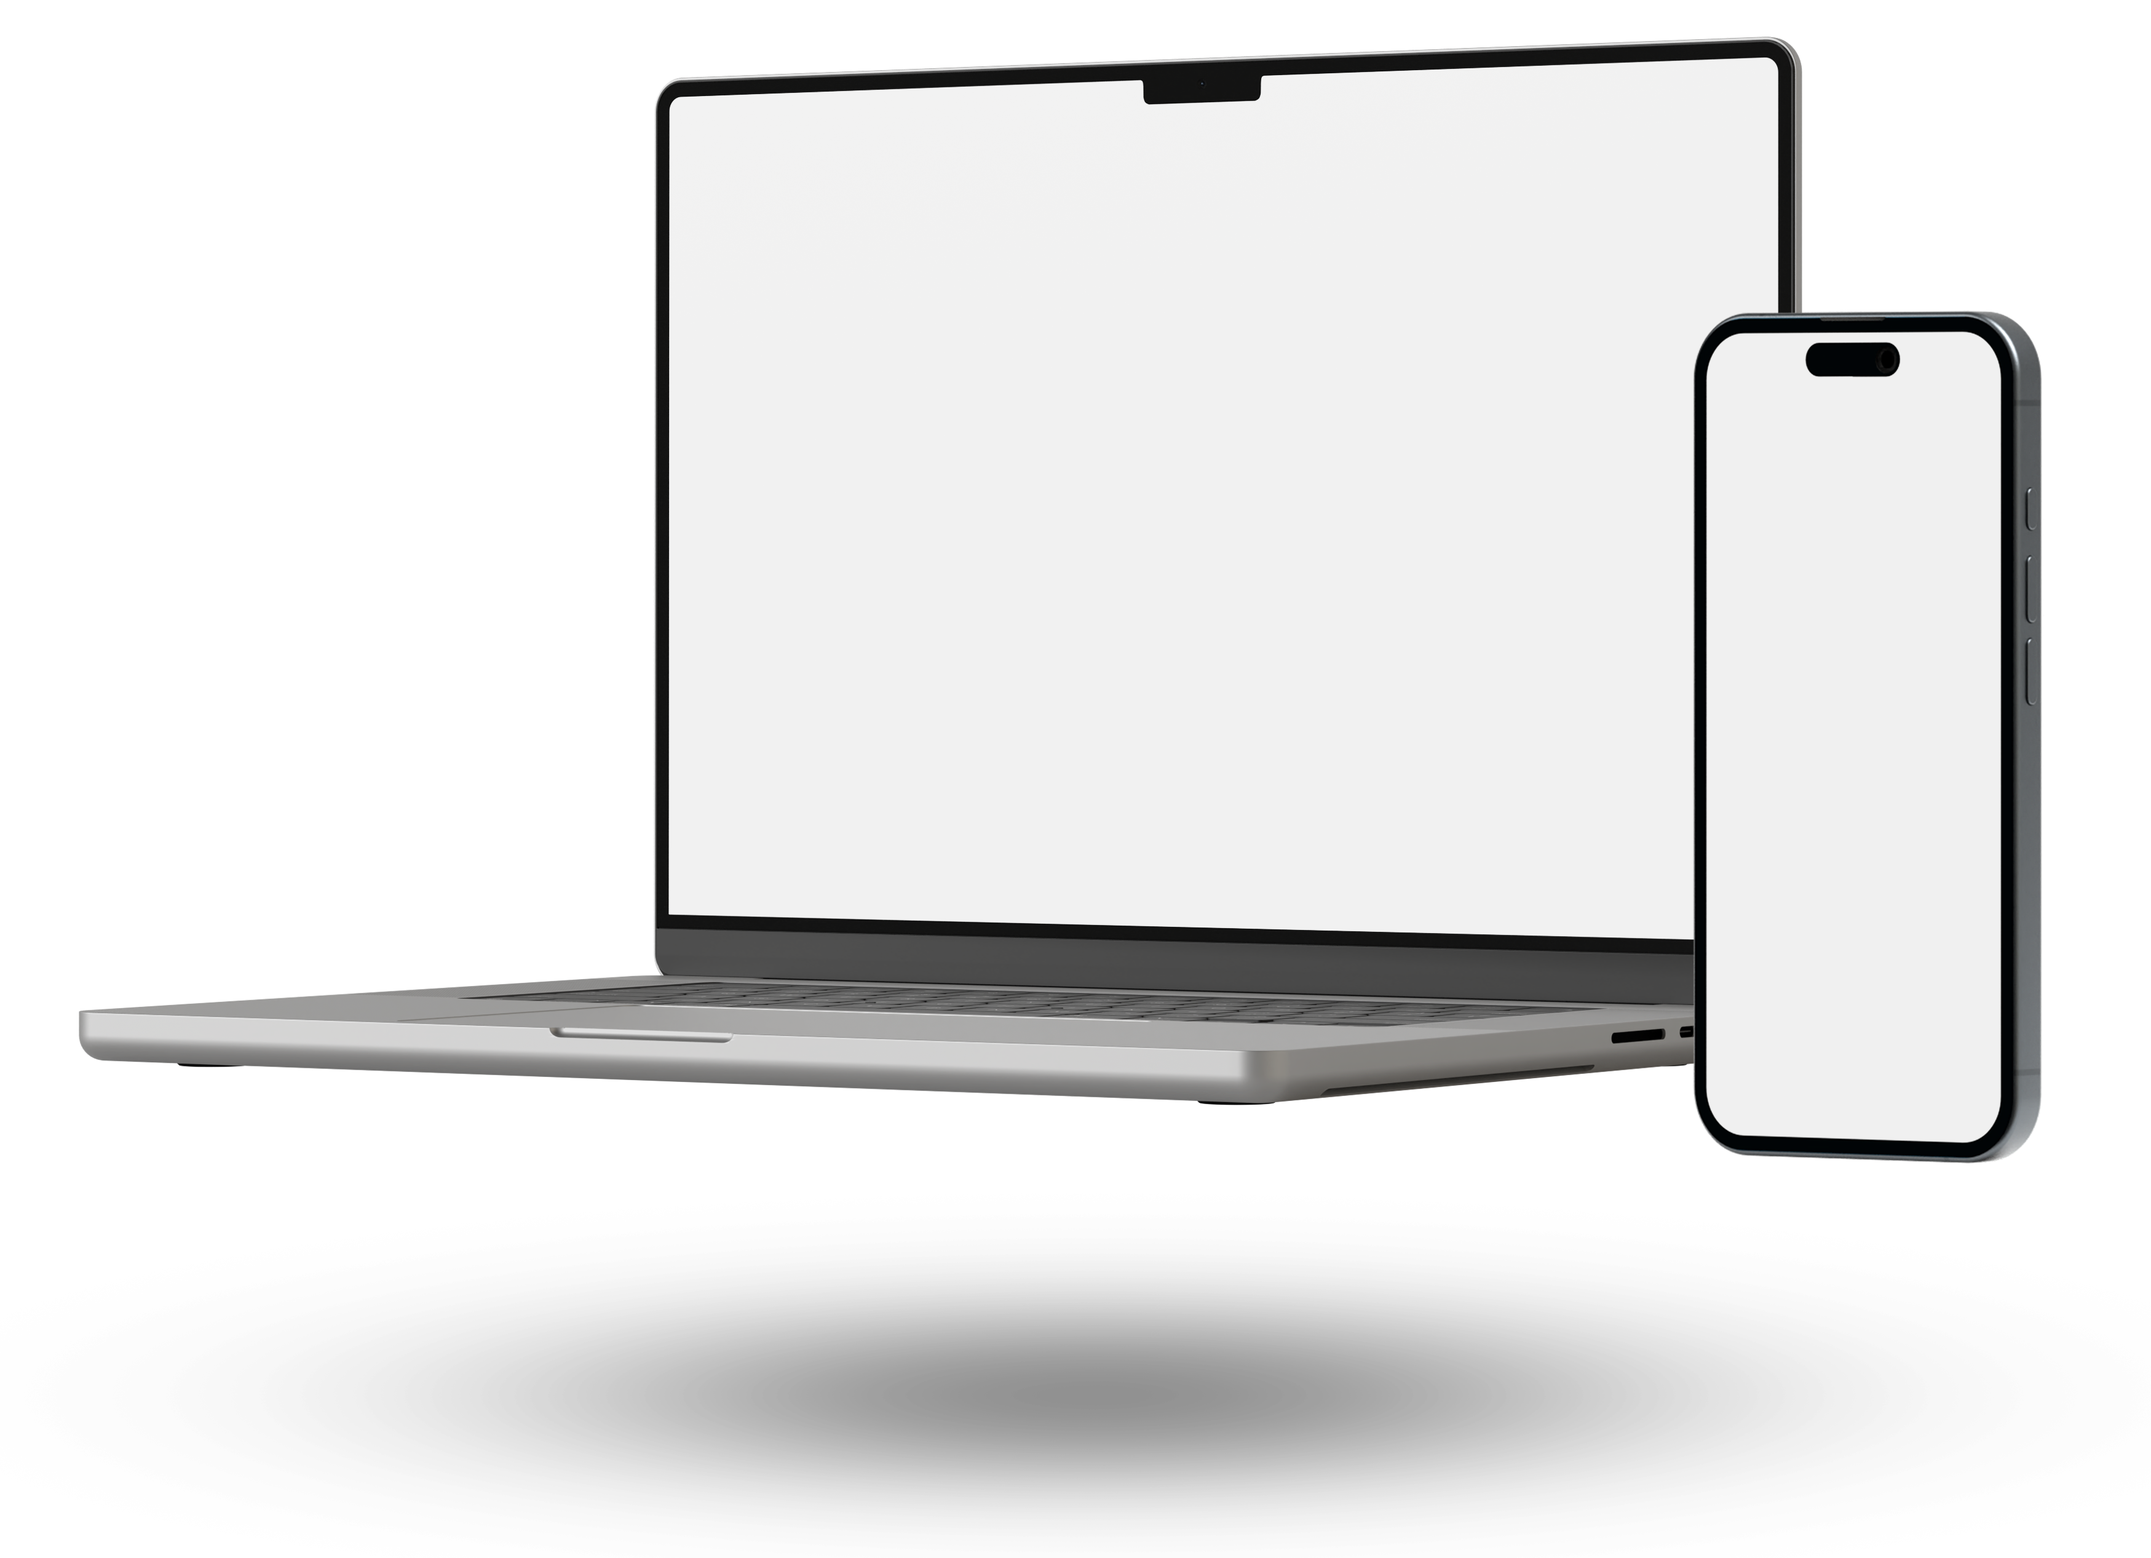
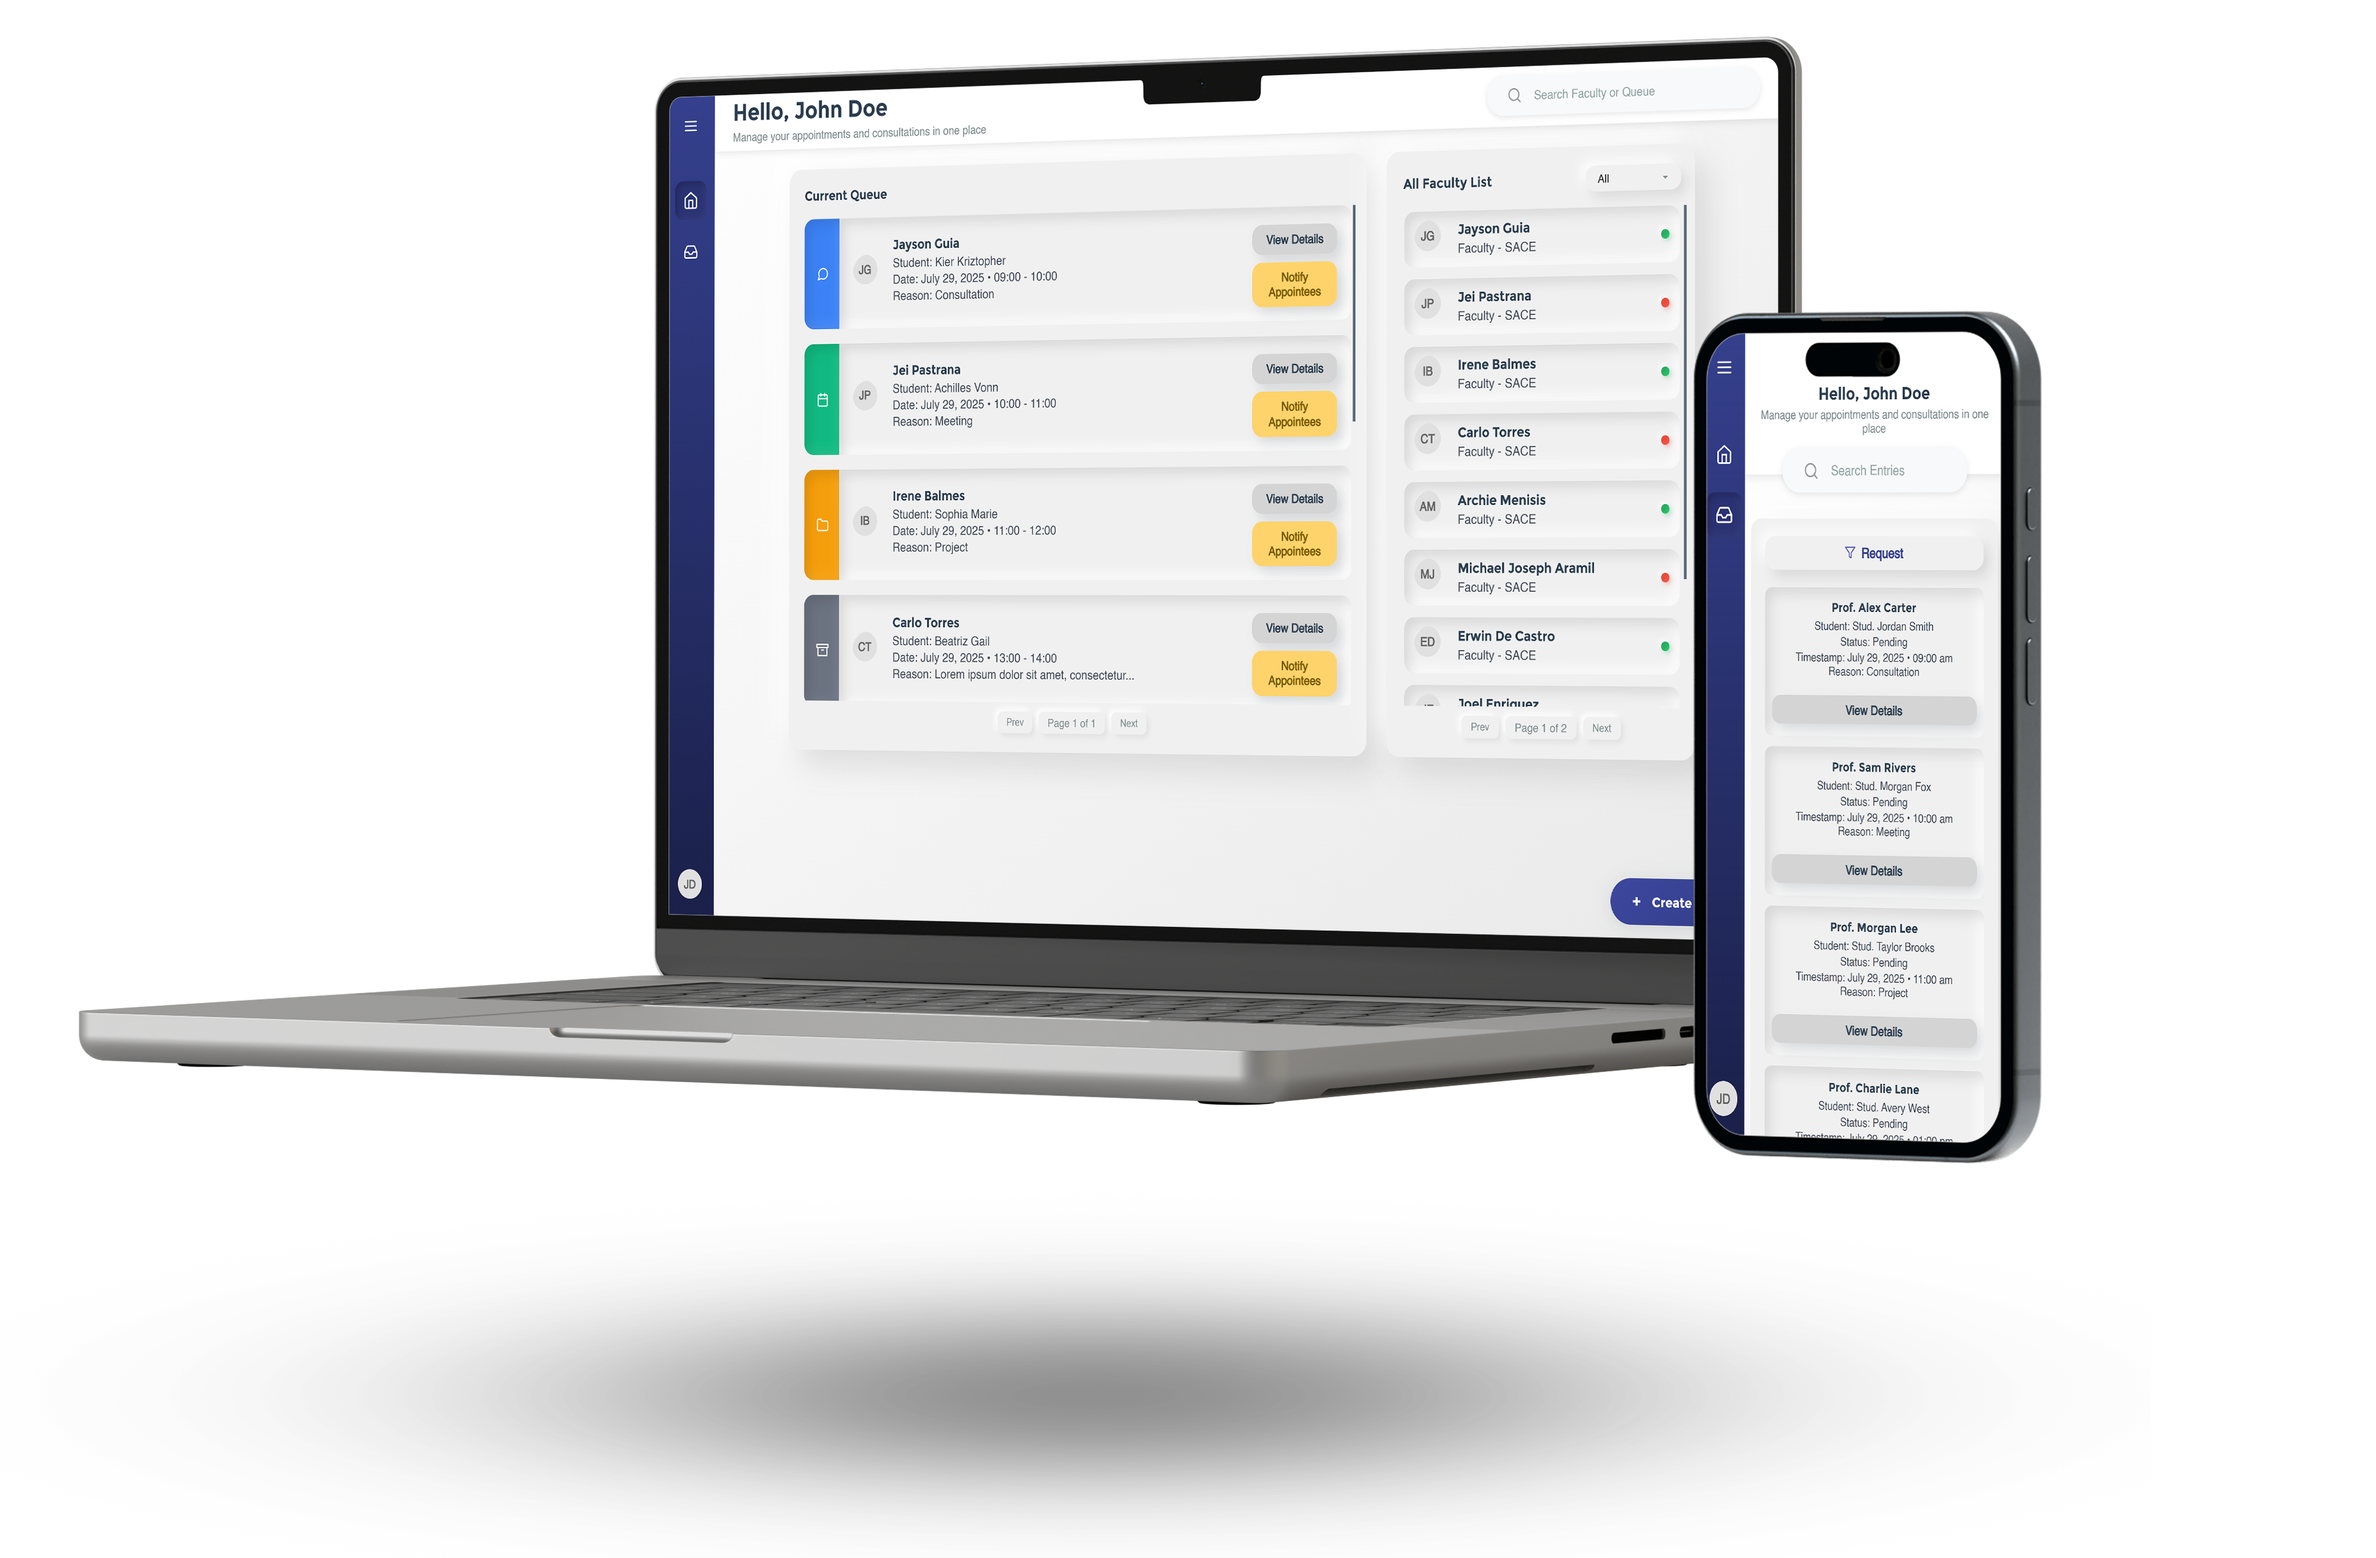
feat: Add date normalization helper and enhance date formatting in DailyLogHistory and RequestHistory components; improve mobile responsiveness in moderator history styles

diff --git a/nutify/src/pages/components/RequestHistory.jsx b/nutify/src/pages/components/RequestHistory.jsx
@@ -1,31 +1,36 @@
 // Request history list UI
 import React, { useState } from "react";
 
-// Format date as MM/DD/YYYY
-const formatDateMMDDYYYY = (dateStr) => {
+// Format date as "Month Day, Year • hh:mm am/pm"
+const formatDateWithTime = (dateStr) => {
   // Accepts "July 29, 2025 09:00"
-  const [datePart, timePart] = dateStr.split(' ');
-  let d = new Date(datePart.replace(',', '') + ' ' + timePart);
-  return isNaN(d.getTime())
-    ? dateStr
-    : `${d.toLocaleString("en-US", { month: "long", day: "numeric", year: "numeric" })}`;
+  const d = new Date(dateStr);
+  if (isNaN(d.getTime())) return dateStr;
+  const datePart = d.toLocaleString("en-US", { month: "long", day: "numeric", year: "numeric" });
+  let hours = d.getHours();
+  let minutes = d.getMinutes();
+  let ampm = hours >= 12 ? "pm" : "am";
+  hours = hours % 12;
+  hours = hours === 0 ? 12 : hours;
+  const timePart = `${hours.toString().padStart(2, "0")}:${minutes.toString().padStart(2, "0")} ${ampm}`;
+  return `${datePart} • ${timePart}`;
 };
 
 const facultyList = [
-  { id: 1, name: 'Jayson Guia', avatar: null },
-  { id: 2, name: 'Jei Pastrana', avatar: null },
-  { id: 3, name: 'Irene Balmes', avatar: null },
-  { id: 4, name: 'Carlo Torres', avatar: null },
-  { id: 5, name: 'Archie Menisis', avatar: null },
-  { id: 6, name: 'Michael Joseph Aramil', avatar: null }
+  { id: 1, name: 'Prof. Alex Carter', avatar: null },
+  { id: 2, name: 'Prof. Sam Rivers', avatar: null },
+  { id: 3, name: 'Prof. Morgan Lee', avatar: null },
+  { id: 4, name: 'Prof. Charlie Lane', avatar: null },
+  { id: 5, name: 'Prof. Taylor Brooks', avatar: null },
+  { id: 6, name: 'Prof. Avery West', avatar: null }
 ];
 
 const studentNames = [
-  "Kier Kriztopher",
-  "Achilles Vonn",
-  "Sophia Marie",
-  "Beatriz Gail",
-  "Prinz Noel"
+  "Stud. Jordan Smith",
+  "Stud. Morgan Fox",
+  "Stud. Taylor Brooks",
+  "Stud. Avery West",
+  "Stud. Charlie Lane"
 ];
 
 // Example request items
@@ -36,7 +41,7 @@ export const requestHistoryItems = [
     studentName: studentNames[0],
     status: "pending",
     time: "July 29, 2025 09:00",
-    reason: "Request for thesis consultation",
+    reason: "Consultation",
   },
   {
     id: 102,
@@ -44,7 +49,7 @@ export const requestHistoryItems = [
     studentName: studentNames[1],
     status: "pending",
     time: "July 29, 2025 10:00",
-    reason: "Request for grade review",
+    reason: "Meeting",
   },
   {
     id: 103,
@@ -52,7 +57,7 @@ export const requestHistoryItems = [
     studentName: studentNames[2],
     status: "pending",
     time: "July 29, 2025 11:00",
-    reason: "Request for project feedback",
+    reason: "Project",
   },
   {
     id: 104,
@@ -60,7 +65,7 @@ export const requestHistoryItems = [
     studentName: studentNames[3],
     status: "pending",
     time: "July 29, 2025 13:00",
-    reason: "Request for consultation slot",
+    reason: "Lorem ipsum dolor sit amet, consectetur adipiscing elit. Sed do eiusmod tempor.",
   },
   {
     id: 105,
@@ -68,7 +73,7 @@ export const requestHistoryItems = [
     studentName: studentNames[4],
     status: "pending",
     time: "July 29, 2025 14:00",
-    reason: "Request for extension on assignment",
+    reason: "Lorem ipsum dolor sit amet, consectetur adipiscing elit. Sed do eiusmod tempor.",
   },
 ];
 
@@ -160,10 +165,7 @@ const RequestHistory = ({ onViewDetails, searchTerm }) => {
                   className="moderator-history-appointment-time"
                   style={{ fontSize: "1.08em", color: "#424A57" }} // slightly bigger time
                 >
-                  Timestamp: {formatDateMMDDYYYY(item.time)} •{" "}
-                  {item.time.split(" ")[1] ||
-                    item.time.split(" - ")[1] ||
-                    "00:00 am"}
+                  Timestamp: {formatDateWithTime(item.time)}
                 </div>
                 <div
                   className="moderator-history-appointment-details moderator-history-details"

diff --git a/nutify/src/pages/components/DailyLogHistory.jsx b/nutify/src/pages/components/DailyLogHistory.jsx
@@ -1,6 +1,17 @@
 // Daily log history list UI
 import React, { useState } from "react";
 
+// Helper to normalize date string to YYYY-MM-DD
+const normalizeDateKey = (dateStr) => {
+  const d = new Date(dateStr);
+  if (isNaN(d.getTime())) return dateStr;
+  // Pad month and day
+  const yyyy = d.getFullYear();
+  const mm = String(d.getMonth() + 1).padStart(2, '0');
+  const dd = String(d.getDate()).padStart(2, '0');
+  return `${yyyy}-${mm}-${dd}`;
+};
+
 // Format date for header (now includes year)
 const formatDateHeader = (dateStr) => {
   const d = new Date(dateStr);
@@ -18,15 +29,12 @@ const formatDateTime = (dateStr) => {
   return `${datePart} • ${timePart}`;
 };
 
-// Group dailylog items by date
+// Group dailylog items by normalized date
 const getDailyLogGroups = (items) => {
   const groups = {};
   items.forEach((item) => {
     if (item.status === "dailylog") {
-      const dateKey =
-        item.time.includes("-") && item.time.includes(":")
-          ? item.time.split(" ")[0]
-          : item.time.split(" - ")[0];
+      const dateKey = normalizeDateKey(item.time);
       if (!groups[dateKey]) groups[dateKey] = [];
       groups[dateKey].push(item);
     }
@@ -116,6 +124,34 @@ const dailyLogHistoryItems = [
     status: "dailylog",
     reason: "Feedback on assignment",
   },
+  // --- Added July 30 logs ---
+  {
+    id: 7,
+    studentName: studentNames[0],
+    name: facultyList[1].name,
+    details: "Faculty - SACE",
+    time: "July 30, 2025 09:30",
+    status: "dailylog",
+    reason: "Schedule consultation",
+  },
+  {
+    id: 8,
+    studentName: studentNames[2],
+    name: facultyList[2].name,
+    details: "Faculty - SACE",
+    time: "July 30, 2025 10:30",
+    status: "dailylog",
+    reason: "Discuss project updates",
+  },
+  {
+    id: 9,
+    studentName: studentNames[4],
+    name: facultyList[4].name,
+    details: "Faculty - SACE",
+    time: "July 30, 2025 13:00",
+    status: "dailylog",
+    reason: "Request for feedback",
+  },
 ];
 
 const ITEMS_PER_PAGE = 10;
@@ -154,7 +190,7 @@ const DailyLogHistory = ({
         (item.reason &&
           item.reason.toLowerCase().includes(searchTerm.toLowerCase()))) &&
       (!selectedDate ||
-        (item.time.startsWith(selectedDate))) // filter by selected date
+        normalizeDateKey(item.time) === selectedDate) // filter by normalized date
   );
 
   const groups = getDailyLogGroups(filteredItems).filter(

diff --git a/nutify/src/styles/moderatorhistory.css b/nutify/src/styles/moderatorhistory.css
@@ -727,3 +727,38 @@
   padding: 10px 0 !important;
   min-height: 38px;
 }
+
+@media (max-width: 768px) {
+  .moderator-history-appointment-info,
+  .moderator-history-item .moderator-history-appointment-info,
+  .moderator-history-appointment-item .moderator-history-appointment-info {
+    font-size: 0.92em !important;
+  }
+  .moderator-history-appointment-name,
+  .moderator-history-name,
+  .moderator-history-item .moderator-history-appointment-name,
+  .moderator-history-appointment-item .moderator-history-appointment-name,
+  .moderator-history-item .moderator-history-name,
+  .moderator-history-appointment-item .moderator-history-name {
+    font-size: 0.98em !important;
+  }
+  .moderator-history-appointment-details,
+  .moderator-history-details,
+  .moderator-history-item .moderator-history-appointment-details,
+  .moderator-history-appointment-item .moderator-history-appointment-details,
+  .moderator-history-item .moderator-history-details,
+  .moderator-history-appointment-item .moderator-history-details {
+    font-size: 0.92em !important;
+  }
+  .moderator-history-appointment-time,
+  .moderator-history-item .moderator-history-appointment-time,
+  .moderator-history-appointment-item .moderator-history-appointment-time {
+    font-size: 0.92em !important;
+  }
+  .moderator-history-see-more-btn,
+  .moderator-home-see-more-btn {
+    font-size: 0.92em !important;
+    padding: 8px 0 !important;
+    min-height: 32px !important;
+  }
+}
